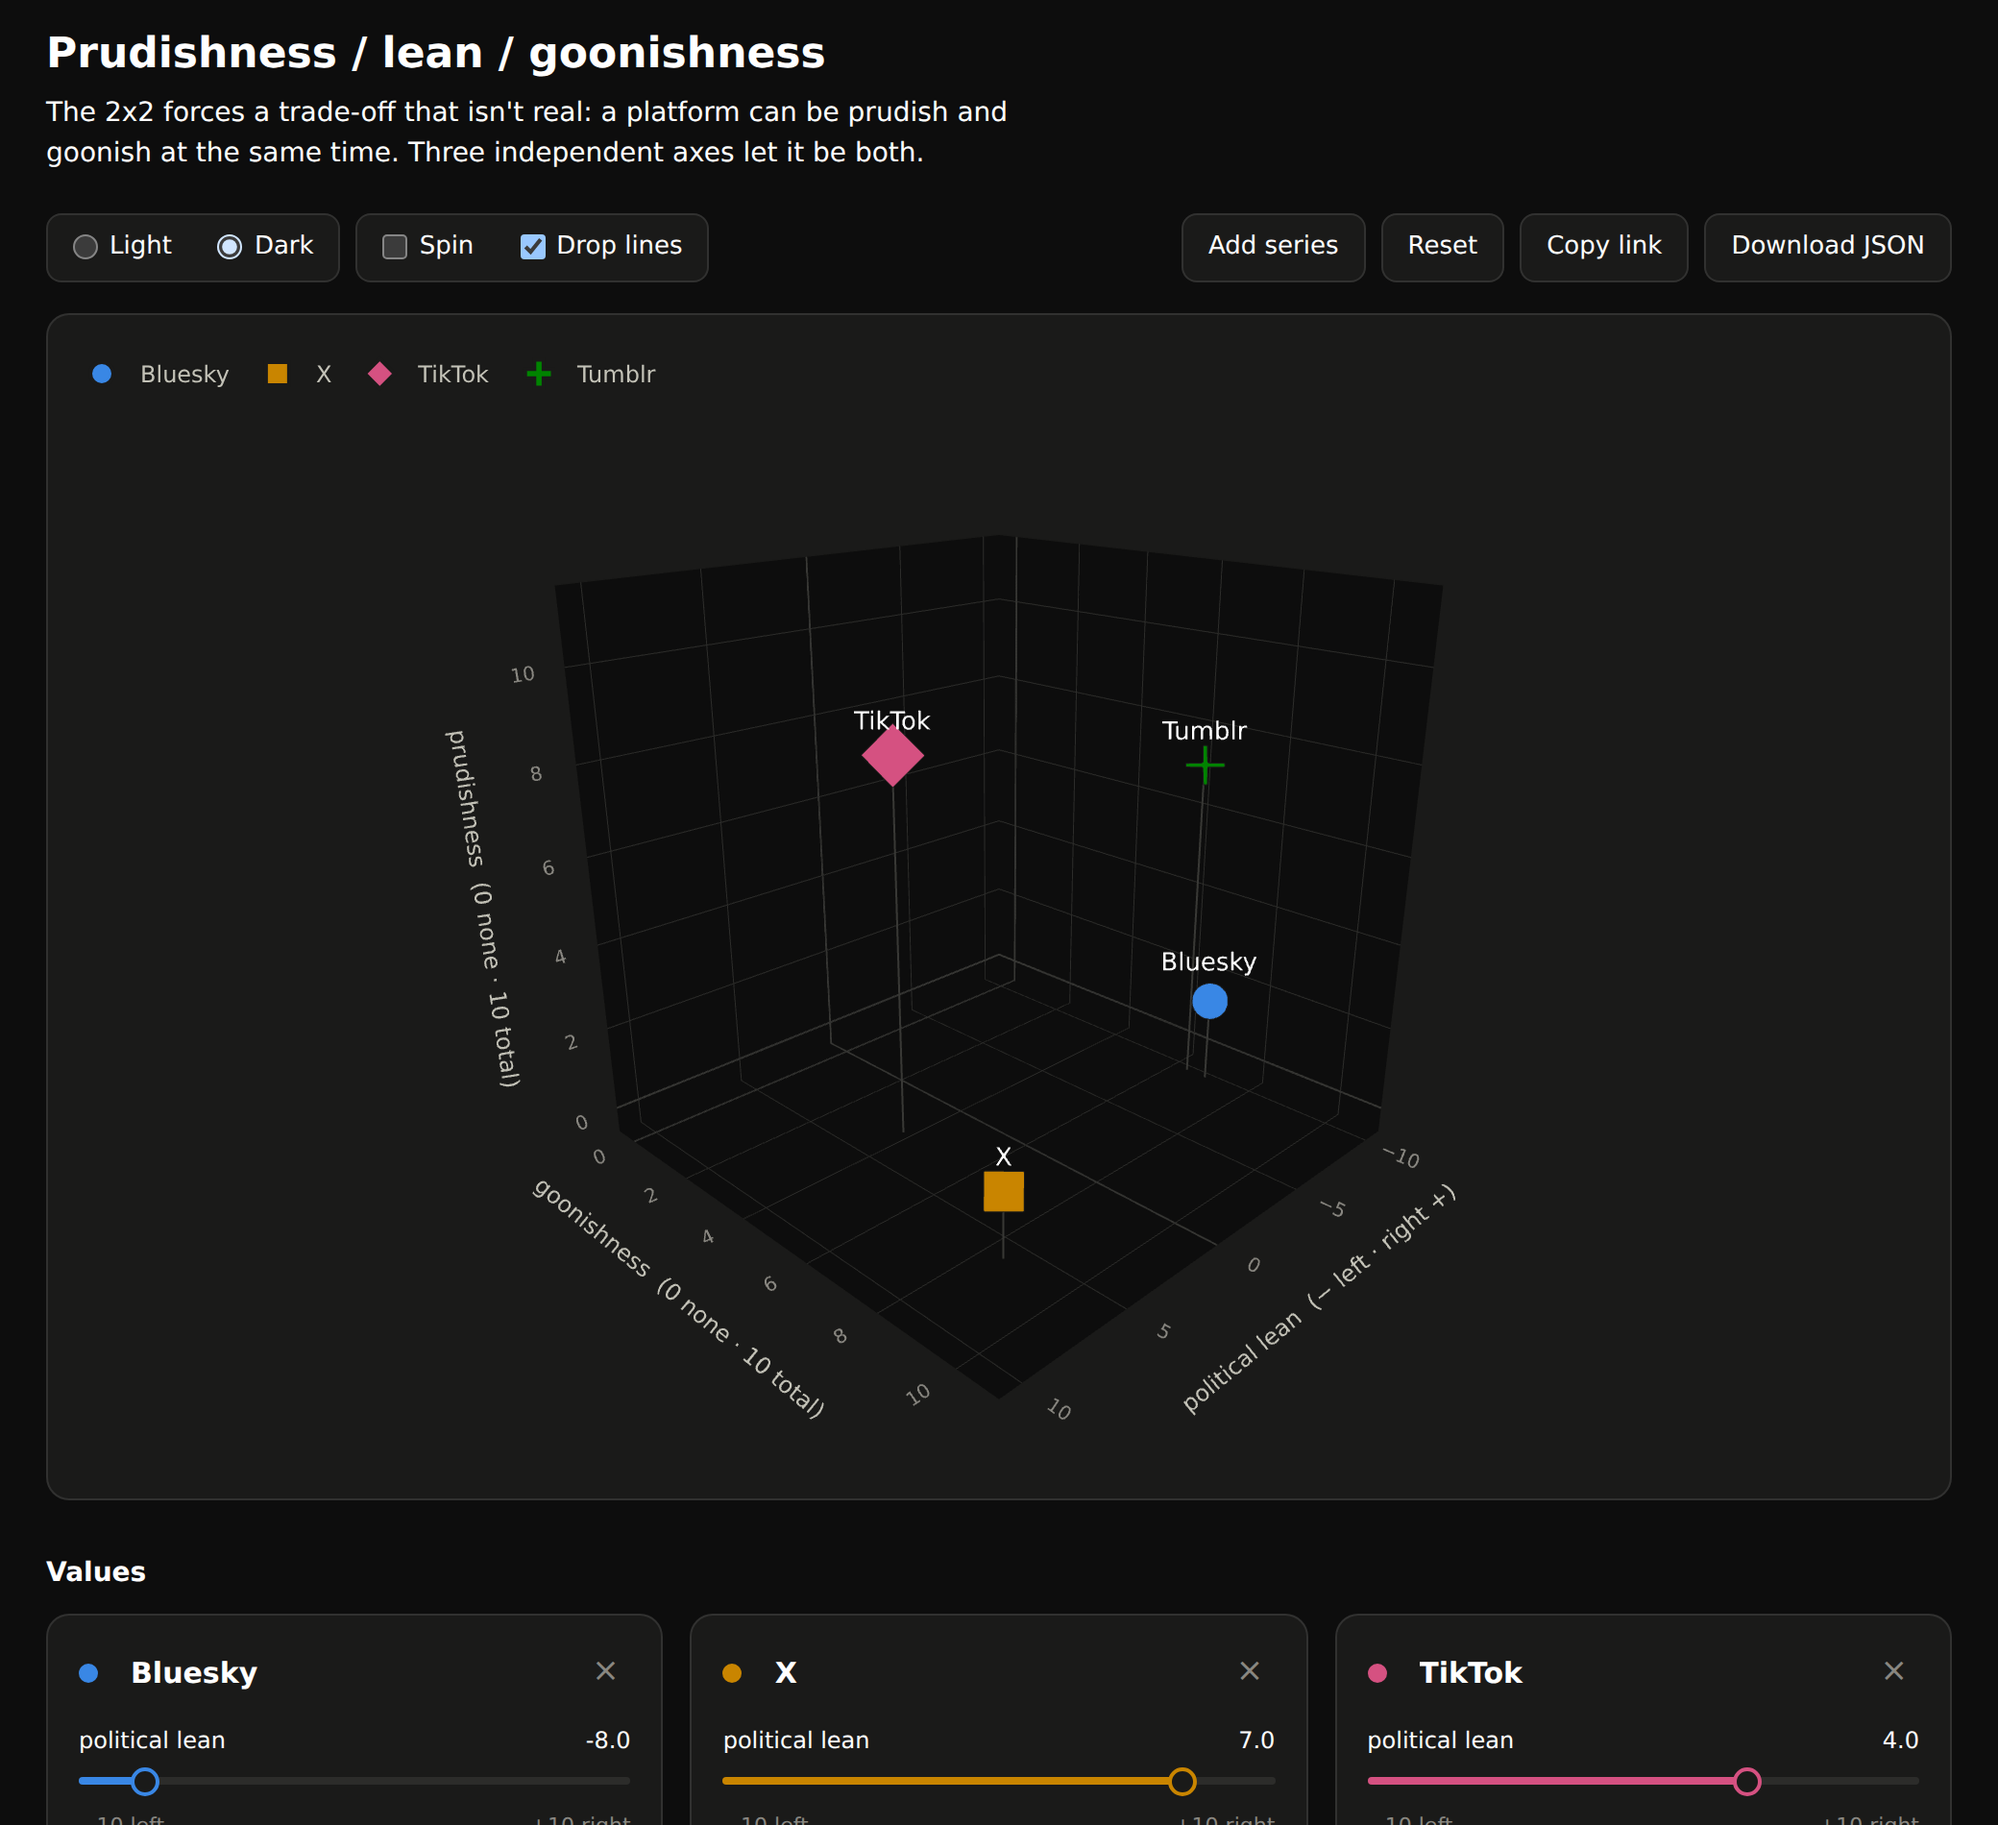
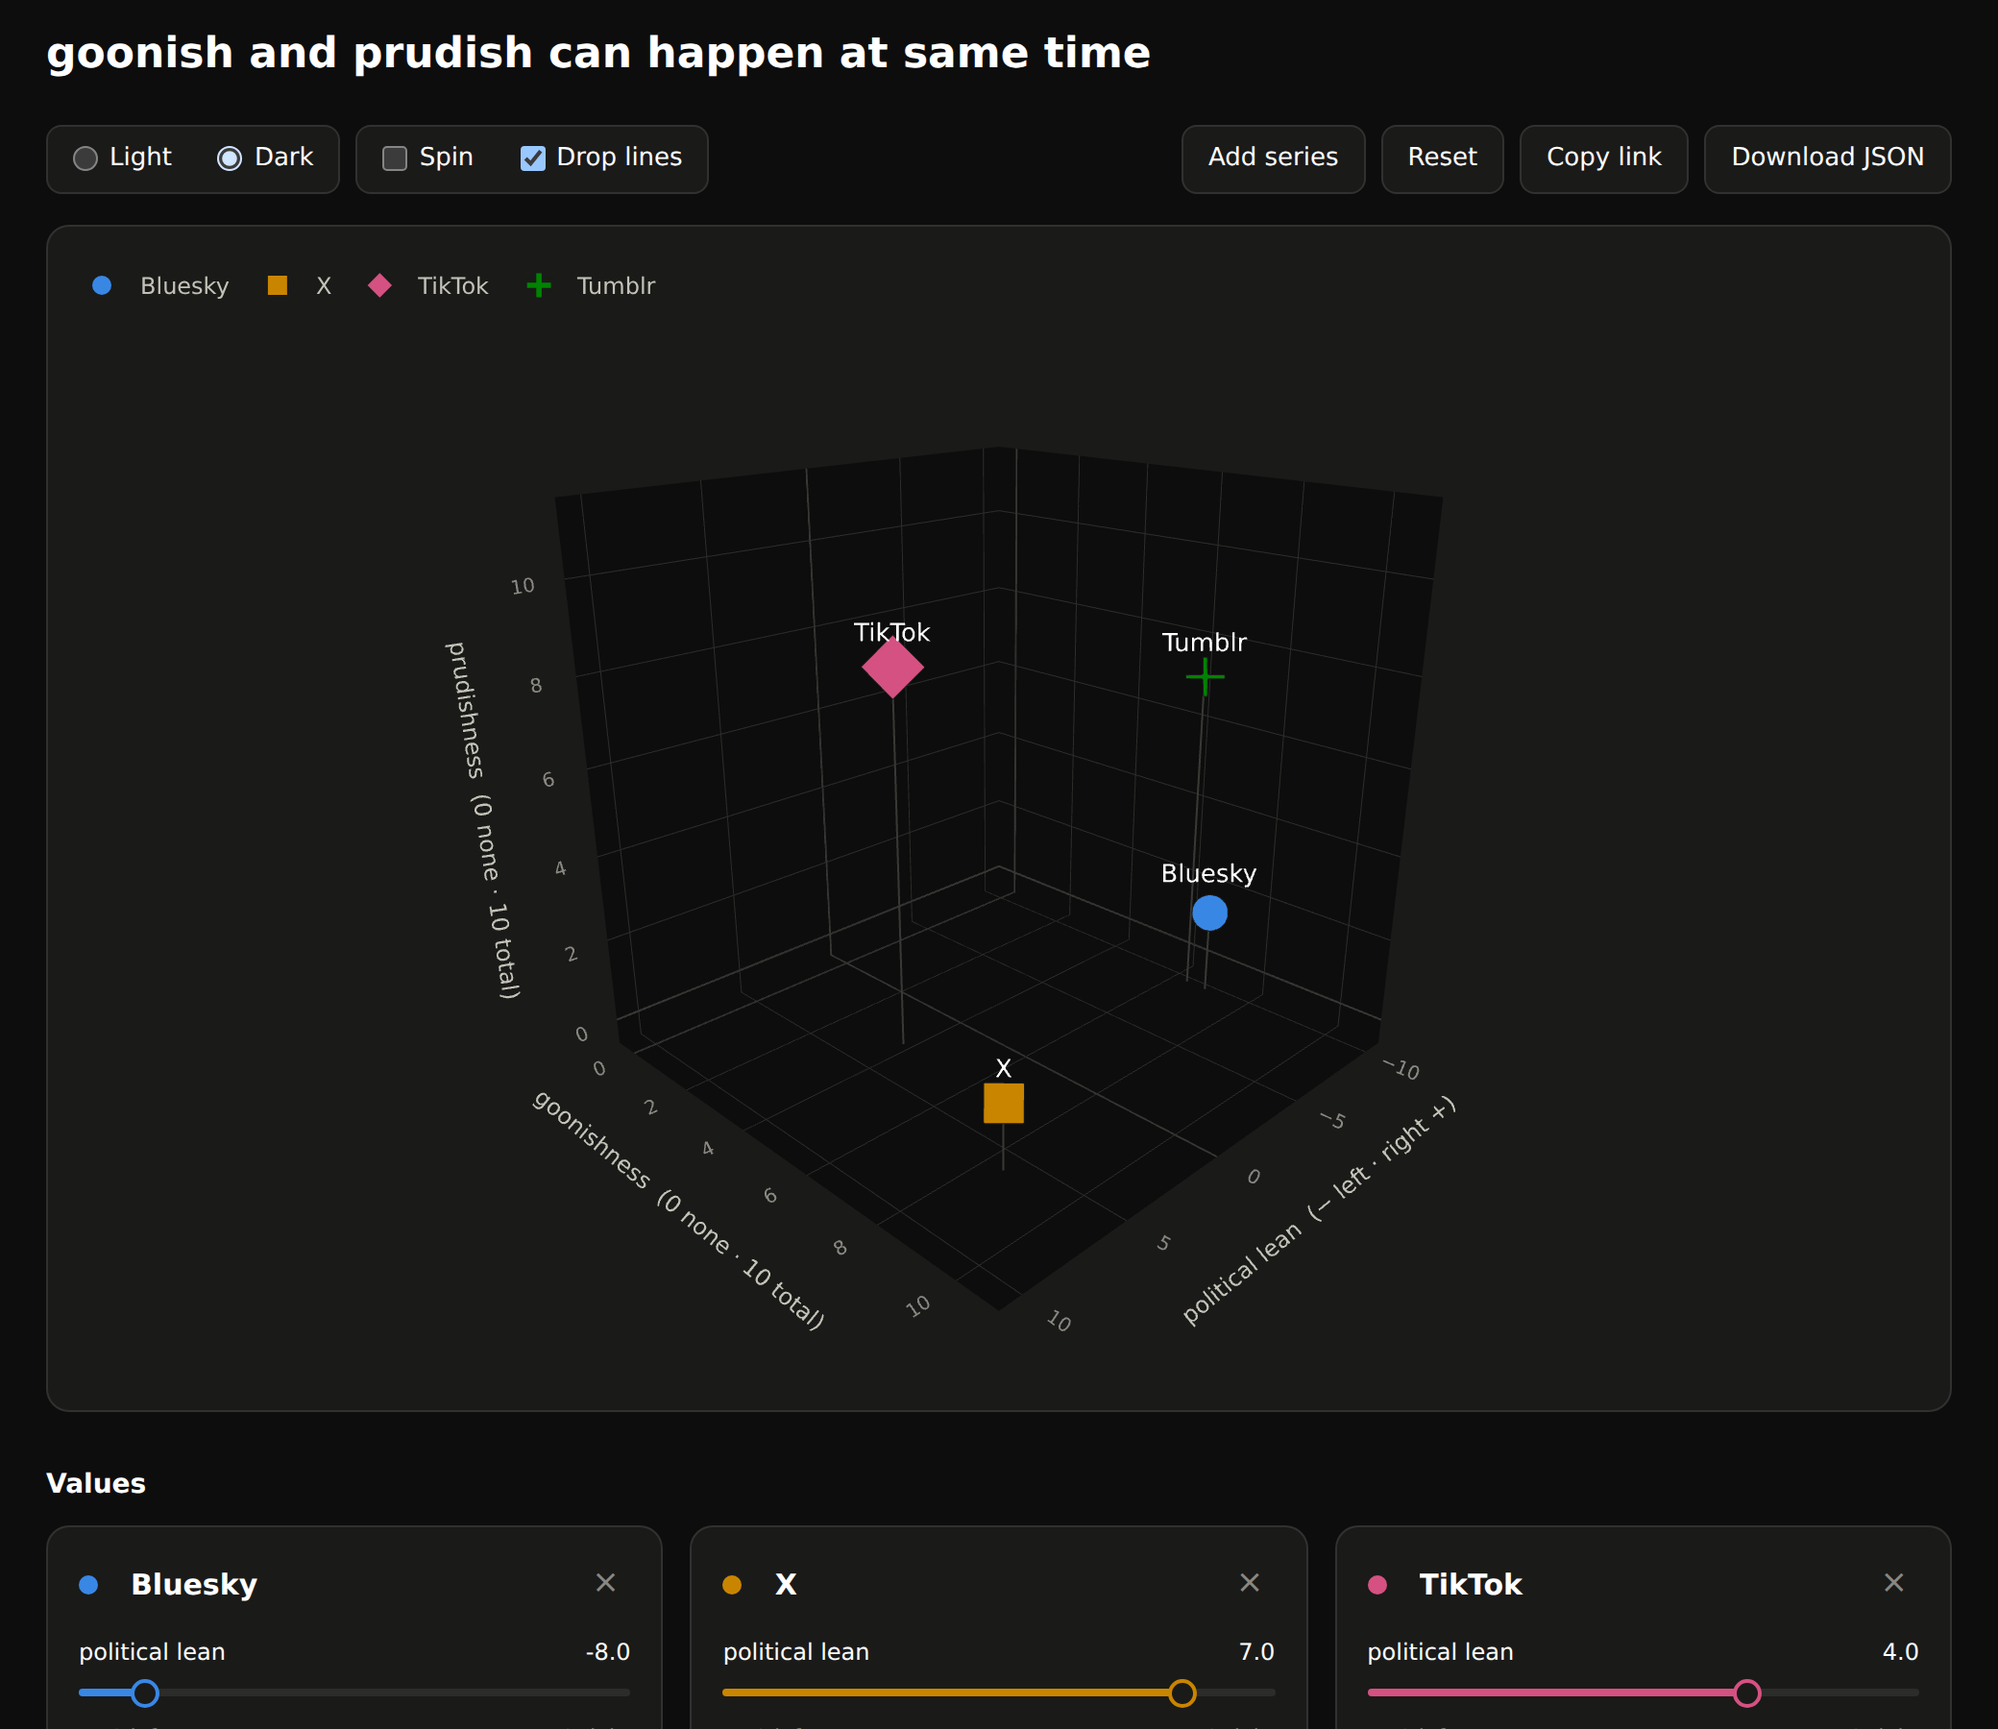
Replace the page heading with a single line
Drops the title/subtitle pair for one plain statement of the point:
"goonish and prudish can happen at same time". An empty subtitle now omits
the element entirely rather than leaving a blank line under the heading, and
the title stands in as the meta description. Passing --subtitle still
renders it, so the two-line layout remains available.

Claude-Session: https://claude.ai/code/session_01WDuBv9GwRPojdsuLXU7CzC

diff --git a/index.html b/index.html
@@ -3,8 +3,8 @@
 <head>
 <meta charset="utf-8">
 <meta name="viewport" content="width=device-width, initial-scale=1">
-<title>Prudishness / lean / goonishness</title>
-<meta name="description" content="The 2x2 forces a trade-off that isn&#x27;t real: a platform can be prudish and goonish at the same time. Three independent axes let it be both.">
+<title>goonish and prudish can happen at same time</title>
+<meta name="description" content="goonish and prudish can happen at same time">
 <style>
 
 :root {
@@ -140,8 +140,7 @@ footer a { color: var(--text-secondary); }
 <body>
 <div class="wrap">
   <header>
-    <h1>Prudishness / lean / goonishness</h1>
-    <p class="sub">The 2x2 forces a trade-off that isn&#x27;t real: a platform can be prudish and goonish at the same time. Three independent axes let it be both.</p>
+    <h1>goonish and prudish can happen at same time</h1>
   </header>
 
   <div class="controls">

diff --git a/export.py b/export.py
@@ -36,7 +36,7 @@ PAGE = Template("""<!doctype html>
 <meta charset="utf-8">
 <meta name="viewport" content="width=device-width, initial-scale=1">
 <title>${title}</title>
-<meta name="description" content="${subtitle}">
+<meta name="description" content="${description}">
 <style>
 ${tokens}
 * { box-sizing: border-box; }
@@ -132,8 +132,7 @@ footer a { color: var(--text-secondary); }
 <body>
 <div class="wrap">
   <header>
-    <h1>${title}</h1>
-    <p class="sub">${subtitle}</p>
+    <h1>${title}</h1>${subtitle_block}
   </header>
 
   <div class="controls">
@@ -610,9 +609,16 @@ def build_page(
         for theme in THEME_NAMES
     }
 
+    # An empty subtitle drops the element rather than leaving a blank line
+    # under the heading, and the title carries the meta description instead.
+    subtitle_block = (
+        f'\n    <p class="sub">{escape(subtitle)}</p>' if subtitle.strip() else ""
+    )
+
     page = PAGE.substitute(
         title=escape(title),
-        subtitle=escape(subtitle, quote=True),
+        subtitle_block=subtitle_block,
+        description=escape(subtitle or title, quote=True),
         footnote=escape(footnote),
         tokens=css(),
         axes=dumps(axes),
@@ -647,14 +653,8 @@ def main() -> None:
     parser.add_argument("-o", "--out", default="index.html", help="output file (default: index.html)")
     parser.add_argument("--data", default=None, help="chart definition JSON (default: data.json)")
     parser.add_argument("--inline", action="store_true", help="embed plotly.js (~4.8 MB, works offline)")
-    parser.add_argument("--title", default="Prudishness / lean / goonishness")
-    parser.add_argument(
-        "--subtitle",
-        default=(
-            "The 2x2 forces a trade-off that isn't real: a platform can be prudish "
-            "and goonish at the same time. Three independent axes let it be both."
-        ),
-    )
+    parser.add_argument("--title", default="goonish and prudish can happen at same time")
+    parser.add_argument("--subtitle", default="", help="optional line under the heading")
     parser.add_argument("--footnote", default="Values are editable starting points, not measurements.")
     args = parser.parse_args()
 
